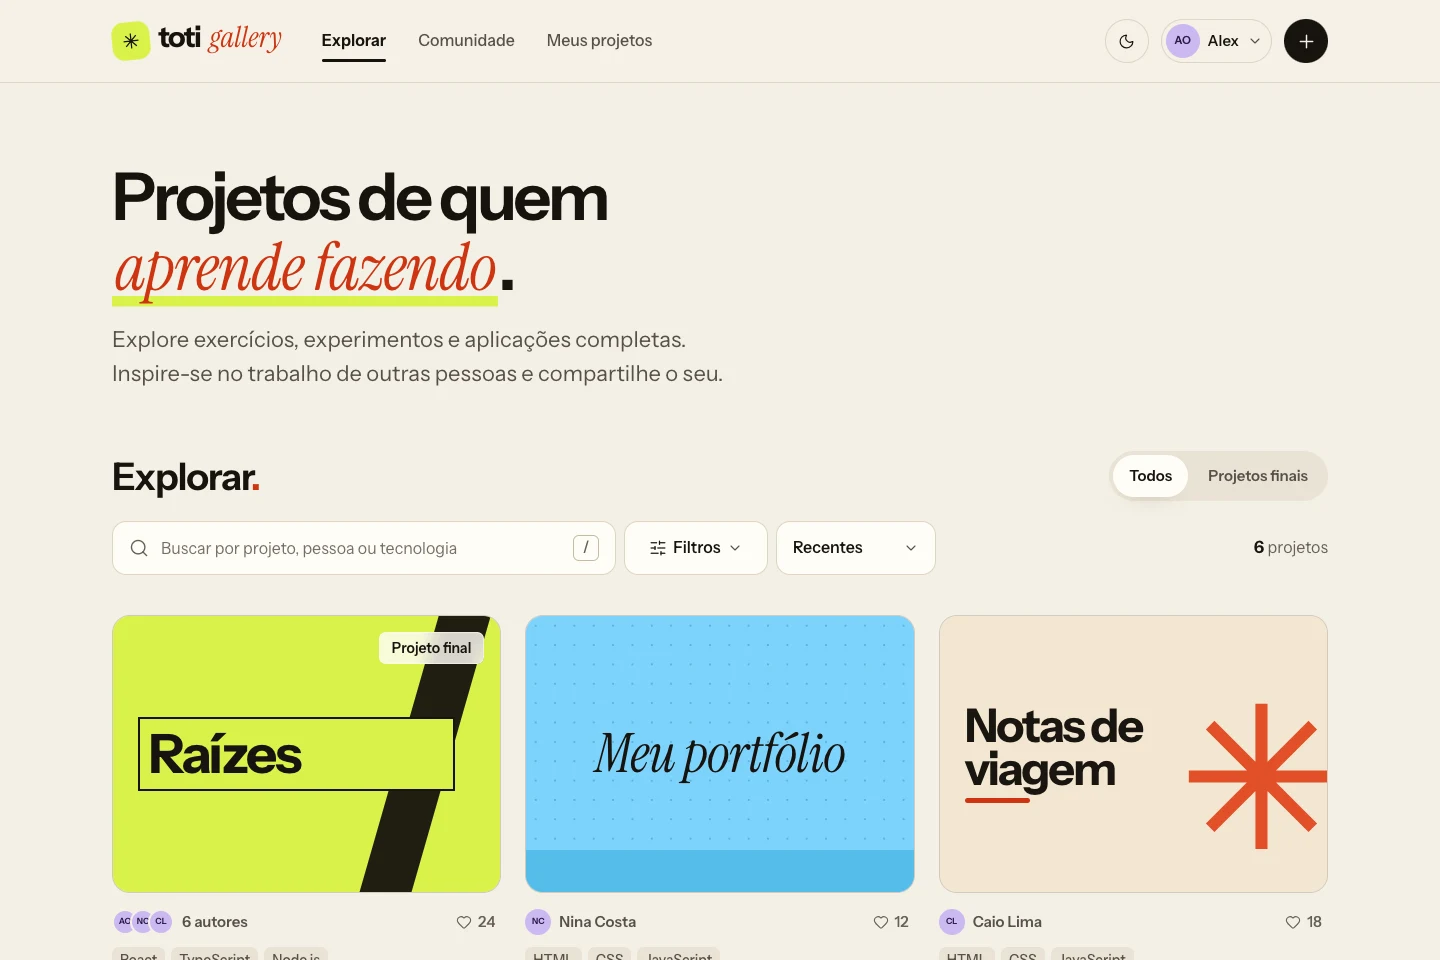
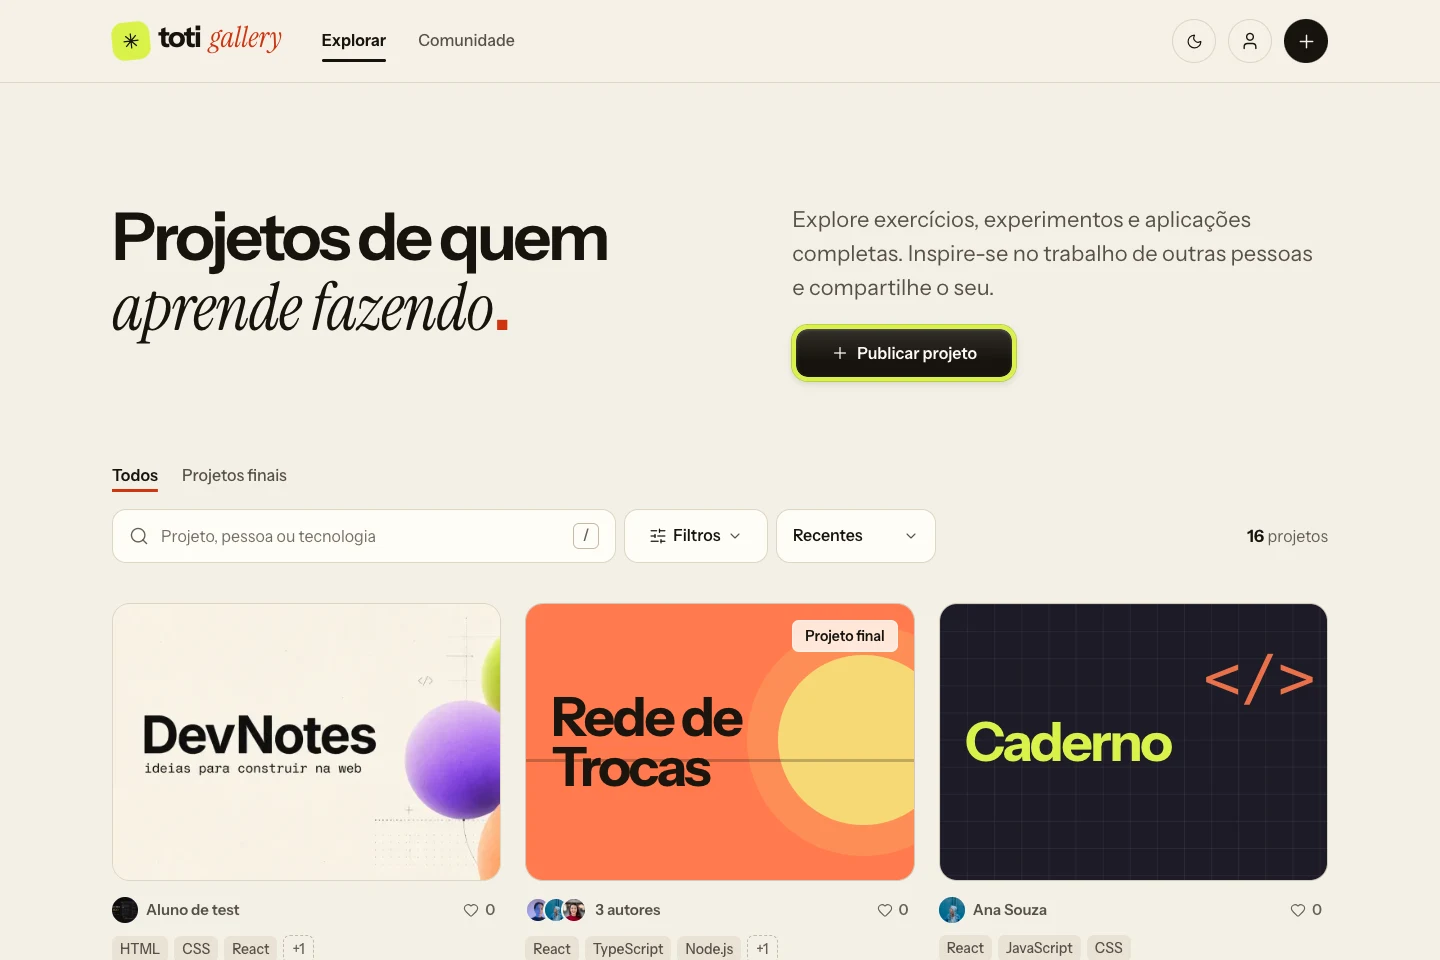
feat: refresh public project presentation

diff --git a/src/components/presentation.tsx b/src/components/presentation.tsx
@@ -1,6 +1,7 @@
 "use client";
 
 import Image from "next/image";
+import galleryScreenshot from "../../public/presentation/galeria.webp";
 import Link from "next/link";
 import { useEffect, useRef, useState, useSyncExternalStore, type KeyboardEvent } from "react";
 import { Icon } from "./icon";
@@ -37,7 +38,7 @@ export function Presentation({ authenticated }: { authenticated: boolean }) {
   function screen(image: PresentationImage, alt: string, priority = false) {
     return <figure className="presentation-screen">
       <button type="button" onClick={() => setExpanded({ image, alt })} aria-label={`Ampliar imagem: ${alt}`}>
-        <Image src={`/presentation/${image}.webp`} alt={alt} {...presentationImages[image]} sizes="(max-width: 1000px) 100vw, 900px" preload={priority}/>
+        <Image src={image === "galeria" ? galleryScreenshot : `/presentation/${image}.webp`} alt={alt} {...presentationImages[image]} sizes="(max-width: 1000px) 100vw, 900px" preload={priority}/>
         <span className="presentation-zoom"><Icon name="external" size={15}/>Ampliar</span>
       </button>
       <figcaption>Interface da plataforma com dados fictícios.</figcaption>
@@ -64,6 +65,7 @@ export function Presentation({ authenticated }: { authenticated: boolean }) {
         <article><span>03</span><h3>Manter a comunidade organizada</h3><p>Turmas, acesso e moderação têm uma área própria, separada da experiência pública.</p></article>
       </div>
       <p className="presentation-note">Uma iniciativa de estudantes, veja <Link href="/sobre">Sobre a plataforma<Icon name="arrow-right" size={14}/></Link></p>
+      <details className="presentation-follow-up"><summary>O que ainda está em evolução</summary><p>A ativação de contas e a recuperação de senha usam links enviados manualmente pela administração. A recuperação automática por email e o envio de convites em lote ficam para uma evolução futura, conforme a necessidade de uso. A interface continua sendo aprimorada com testes e feedback.</p></details>
     </section>
 
     <section className="presentation-panel" id="presentation-panel-pratica" role="tabpanel" aria-labelledby="presentation-tab-pratica" hidden={active !== "pratica"} tabIndex={0}>
@@ -92,12 +94,11 @@ export function Presentation({ authenticated }: { authenticated: boolean }) {
       </div>
       <DataModel/>
       <div className="presentation-engineering"><article><h3>Proteção contra erros reais</h3><p>Versões detectam edições concorrentes. Recibos evitam publicações duplicadas em tentativas repetidas. Curtidas usam o estado desejado, em vez de alternar cegamente.</p></article><article><h3>Verificações durante o desenvolvimento</h3><p>Testes unitários e de integração cobrem operações críticas. Playwright verifica fluxos no navegador; o CI executa um conjunto isolado de regressão em desktop e mobile.</p></article><article><h3>Demonstração sem dados reais</h3><p>O estudante fictício usa IndexedDB no navegador. Seus projetos, imagens e curtidas ficam locais; o modo demo não concede uma sessão autenticada.</p></article></div>
-      <details className="presentation-follow-up"><summary>O que ainda está em evolução</summary><p>O protótipo já gera links de ativação e recuperação, compartilhados manualmente. O envio automático de emails é uma próxima etapa. A evolução da interface continua a partir de testes e feedback de uso.</p></details>
     </section>
 
     <dialog ref={dialog} className="presentation-lightbox" aria-labelledby="presentation-image-title" onCancel={() => setExpanded(null)} onClick={event => { if (event.target === event.currentTarget) setExpanded(null); }}>
       <div className="presentation-lightbox-heading"><h2 id="presentation-image-title">{expanded?.alt}</h2><button type="button" className="button button-outline" onClick={() => setExpanded(null)} aria-label="Fechar imagem"><Icon name="x" size={20}/></button></div>
-      {expanded && <div className="presentation-lightbox-image" tabIndex={0} role="region" aria-label="Imagem ampliada; use a rolagem para ver os detalhes"><Image src={`/presentation/${expanded.image}.webp`} alt={expanded.alt} {...presentationImages[expanded.image]} sizes="(max-width: 1280px) 1280px, 95vw"/></div>}
+      {expanded && <div className="presentation-lightbox-image" tabIndex={0} role="region" aria-label="Imagem ampliada; use a rolagem para ver os detalhes"><Image src={expanded.image === "galeria" ? galleryScreenshot : `/presentation/${expanded.image}.webp`} alt={expanded.alt} {...presentationImages[expanded.image]} sizes="(max-width: 1280px) 1280px, 95vw"/></div>}
     </dialog>
   </main>;
 }
